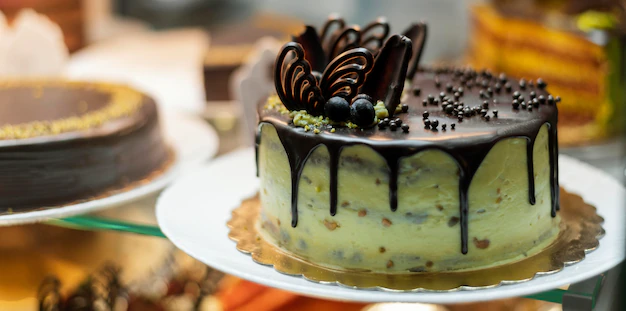
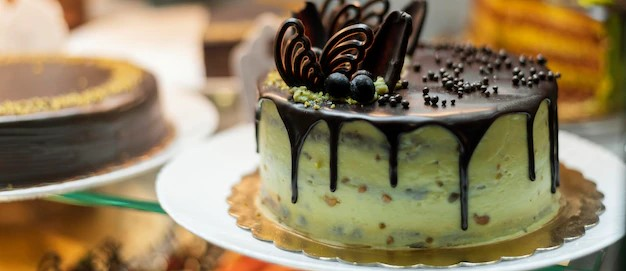
ja

diff --git a/index.css b/index.css
@@ -107,8 +107,8 @@ body {
 /*here starts hero section*/
 
 .cake {
-    width: 80%;
-    height: 0;
+    width: 100%;
+    height: 20%;
     align-items: center;
     justify-content: center;
     position: relative;
